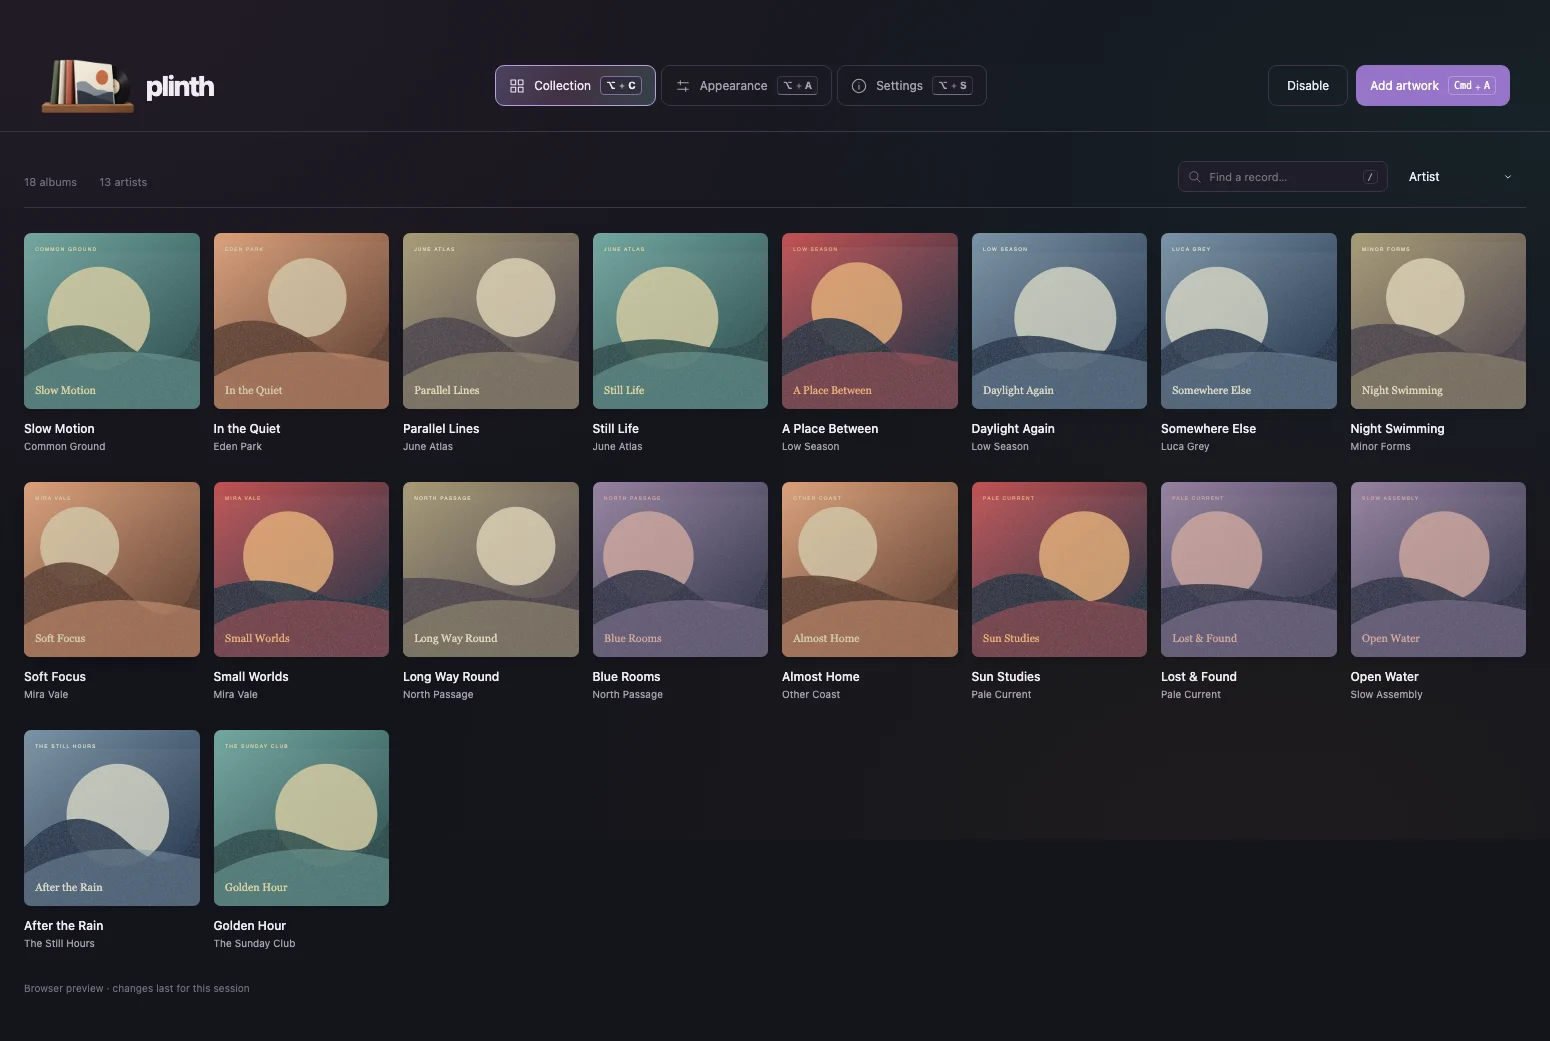
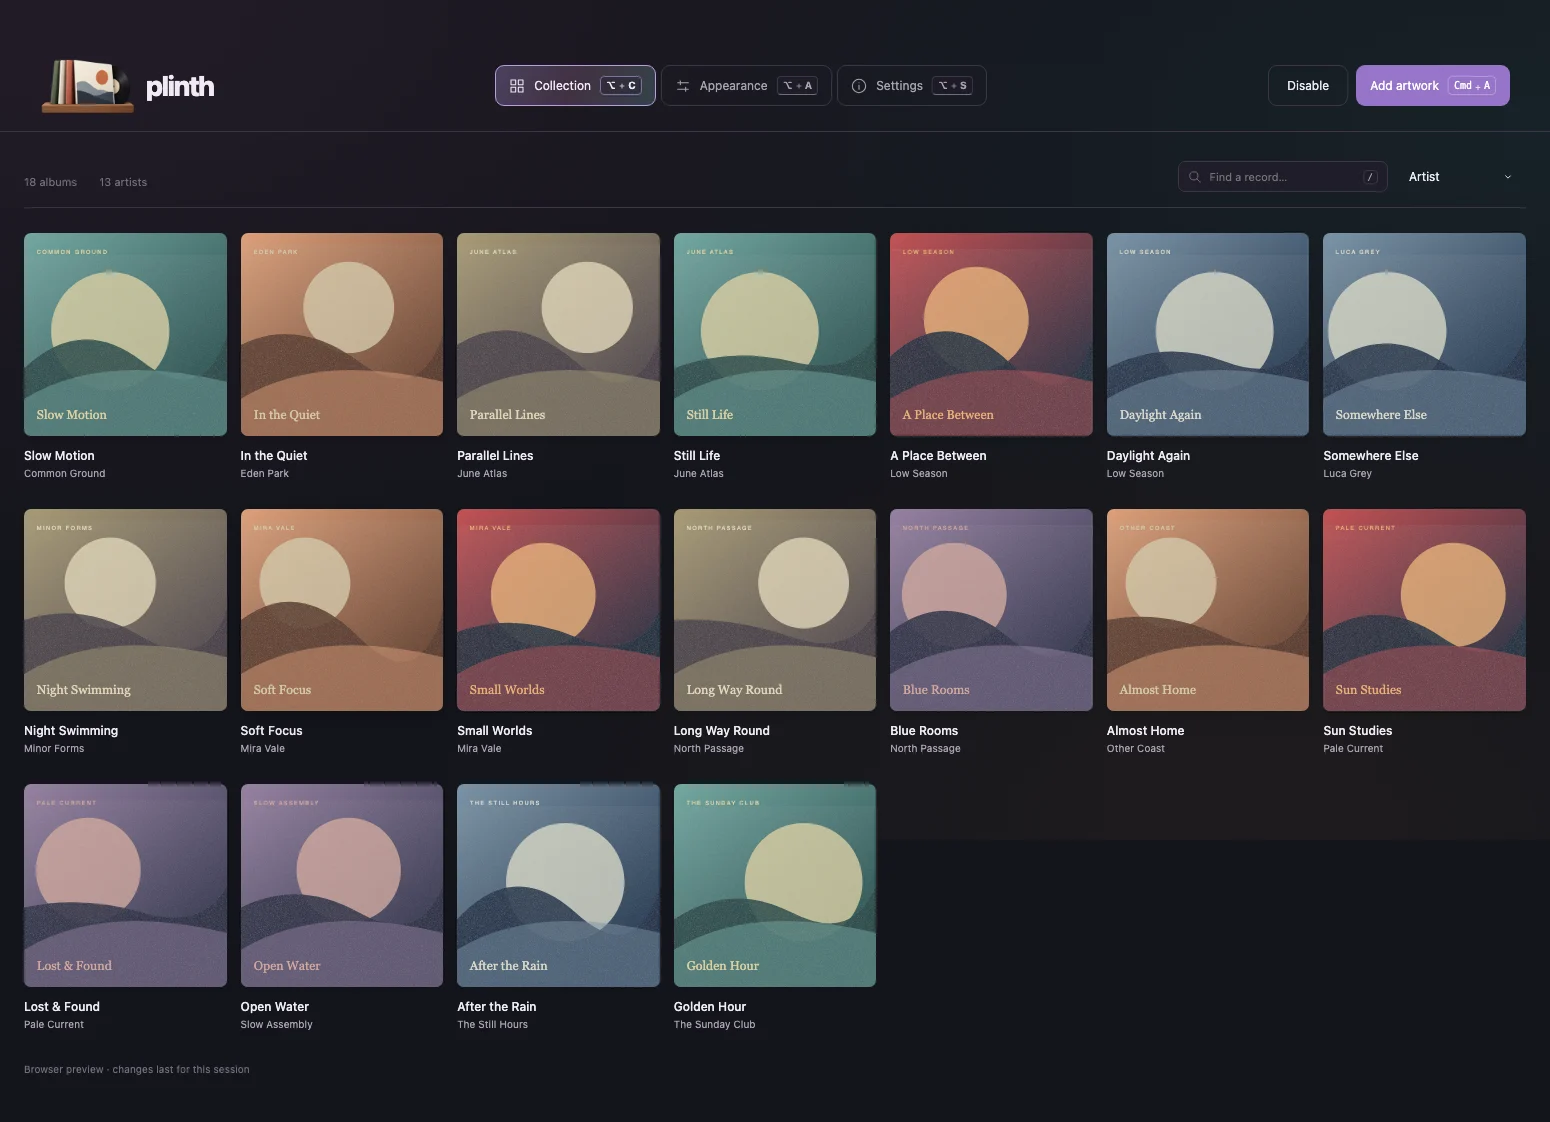
Restore the previous collection column counts, keeping tighter gaps

diff --git a/src/app.css b/src/app.css
@@ -2,12 +2,12 @@
 :root[data-theme=light]{color-scheme:light;--background:radial-gradient(ellipse at 0% 0%,#efdce9,transparent 55%),radial-gradient(ellipse at 100% 10%,#dcefee,transparent 50%),#f7f5f3;--paper:#fffdfcd9;--paper-strong:#f0ebf1;--ink:#2b2632;--muted:#7f7387;--faint:#93899a;--line:#dfd6e4;--accent:#74509e;--accent-bg:#805ba9;--danger:#a94057}
 body{margin:0;background:var(--background);background-attachment:fixed;color:var(--ink);min-width:360px}button,input,select{font:inherit}button,select{cursor:pointer}button{display:inline-flex;align-items:center;justify-content:center;gap:9px;border:1px solid var(--line);border-radius:9px;background:transparent;color:var(--ink);padding:10px 14px;transition:background .15s,border-color .15s}button:hover:not(:disabled){background:var(--paper-strong);border-color:var(--faint)}button:disabled{opacity:.5;cursor:default}button.primary{background:var(--accent-bg);border-color:transparent;color:#fff}button.primary:hover:not(:disabled){background:color-mix(in srgb,var(--accent-bg) 85%,white)}button.icon-only{width:34px;height:34px;padding:7px;border-color:transparent;background:transparent}button.text-button{padding:0;border:0;color:var(--accent);background:none;font-size:12px}button:focus-visible,a:focus-visible,input:focus-visible,select:focus-visible{outline:1px solid var(--faint);outline-offset:2px}svg{display:block;flex:0 0 auto}h1,h2,h3,p{margin:0}h1{font-size:34px;font-weight:550;letter-spacing:-1.2px;line-height:1.3}h2{font-size:17px;font-weight:550;letter-spacing:-.3px}small{font-size:12px;color:var(--muted)}input,select{border:1px solid var(--line);background:var(--paper);color:var(--ink);border-radius:8px;padding:10px 12px;min-width:0}select{font-size:12px}label{display:grid;gap:8px;font-size:12px}a{color:inherit;text-decoration:none}kbd{font:10px ui-monospace,monospace;padding:3px 5px;border:1px solid var(--line);border-radius:4px;color:var(--muted)}kbd.shortcut{display:inline-flex;align-items:center;gap:3px;white-space:nowrap}.shortcut-plus{opacity:.75;transform:translateY(1.5px)}
 .titlebar{height:34px;padding:0 27px 0 86px;display:flex;align-items:center;justify-content:space-between;color:var(--faint);font-size:10px;letter-spacing:.2px;user-select:none}.local-indicator{display:flex;gap:6px;align-items:center}.local-indicator>span{width:4px;height:4px;border-radius:50%;background:#85b7a0}header{height:92px;border-bottom:1px solid var(--line);display:flex;align-items:center;justify-content:space-between;gap:24px;padding:0 40px}.header-actions{display:flex;align-items:stretch;gap:8px;flex-shrink:0}.header-actions>button{font-size:12px;padding:10px 13px}.brand{display:flex;align-items:center;gap:10px;font-size:28px;font-weight:760;letter-spacing:-1.4px}.brand-mark{--brand-logo-size:40px;display:flex;align-items:center;justify-content:center;flex-shrink:0;width:var(--brand-logo-size);height:40px}.brand-mark[data-logo="logo-1"]{--brand-logo-size:96px}.brand-mark[data-logo="logo-2"]{--brand-logo-size:72px;margin-right:-8px}.brand-mark svg{width:var(--brand-logo-size);height:var(--brand-logo-size);align-self:center}.version{font-size:9px;font-weight:400;letter-spacing:0;color:var(--faint);align-self:start;padding-top:6px}nav{display:flex;gap:5px}nav button{font-size:12px;border-color:var(--line);padding:10px 13px;color:var(--muted)}nav button:not(.active){background:transparent}nav button.active,nav button.active:hover:not(:disabled){background:linear-gradient(115deg,color-mix(in srgb,var(--accent) 28%,var(--paper)),color-mix(in srgb,#c882ab 20%,var(--paper)) 48%,color-mix(in srgb,#72bab5 24%,var(--paper)));border-color:var(--accent);color:var(--ink)}nav button>svg{width:16px;height:16px}main{max-width:1440px;margin:0 auto;padding:40px 44px 0}.page-heading{display:flex;justify-content:space-between;align-items:center;gap:20px;margin-bottom:36px}.eyebrow{display:block;color:var(--faint);font-size:9px;letter-spacing:1.7px;font-weight:550;margin-bottom:10px}.page-heading p{margin-top:9px;font-size:13px;color:var(--muted);line-height:1.6}.status-pill{font-size:11px;border-radius:22px;padding:9px 13px;background:var(--paper);color:var(--muted);white-space:nowrap}.status-pill svg{width:12px;height:12px;margin-left:5px}.status-dot{width:6px;height:6px;border-radius:50%;background:#83c9ac;box-shadow:0 0 8px #83c9ac22}.paused .status-dot{background:var(--faint)}
-.collection-toolbar{display:flex;align-items:center;justify-content:space-between;gap:20px;border-bottom:1px solid var(--line);margin-bottom:25px;min-height:52px}.collection-tabs{display:flex;align-items:center;gap:22px;align-self:stretch}.collection-meta{display:flex;align-items:center;font-size:11px;color:var(--faint)}.toolbar-right{display:flex;gap:10px;align-items:center;padding-bottom:10px}.toolbar-right select{border-color:transparent;background:transparent;padding-right:5px}.search{display:flex;align-items:center;gap:8px;border:1px solid var(--line);background:var(--paper);border-radius:7px;padding:0 9px;color:var(--faint)}.search>svg{width:14px;height:14px}.search input{width:145px;border:0;background:none;padding:8px 0;font-size:11px}.search kbd{padding:1px 4px;font-size:9px}.album-grid{display:grid;grid-template-columns:repeat(7,minmax(0,1fr));gap:22px 14px}.album-card{min-width:0;position:relative}.artwork{display:block;position:relative;width:100%;padding:0;border:0;border-radius:7px;background:var(--paper-strong);aspect-ratio:1;box-shadow:0 5px 10px #0002;overflow:hidden;transition:transform .2s,box-shadow .2s}.album-edit:hover .artwork{box-shadow:0 8px 20px #0004}.artwork img{width:100%;height:100%;object-fit:cover;display:block}.album-edit{display:block;width:100%;padding:0;border:0;border-radius:0;text-align:left}.album-edit:hover:not(:disabled){background:transparent}.album-caption{display:block;min-width:0;padding:11px 0 8px}.album-title{display:block;font-size:12px;font-weight:500;letter-spacing:0;overflow:hidden;text-overflow:ellipsis;white-space:nowrap;line-height:1.5}.album-artist{display:block;color:var(--muted);font-size:10px;margin-top:2px;text-overflow:ellipsis;overflow:hidden;white-space:nowrap}.album-card.disabled img{opacity:.4}.hidden-label{position:absolute;top:8px;left:8px;border-radius:4px;background:#000b;padding:4px 6px;font-size:9px;color:white}.import-strip{display:flex;align-items:center;justify-content:space-between;gap:16px;margin-top:34px;padding:20px 22px;border:1px dashed var(--line);border-radius:10px}.import-copy{display:flex;align-items:center;gap:15px}.folder-mark{display:grid;place-items:center;width:34px;height:34px;border-radius:8px;background:var(--paper-strong);color:var(--accent)}.import-copy strong{font-size:12px;font-weight:500}.import-copy p{font-size:11px;color:var(--muted);margin-top:5px}.import-strip>button{font-size:11px;padding:8px 10px;white-space:nowrap}.import-strip>button svg{width:13px;height:13px}footer{display:flex;align-items:center;justify-content:space-between;gap:20px;padding:25px 0;color:var(--faint);font-size:10px}footer>span:first-child{display:flex;align-items:center;gap:7px}footer svg{width:14px;height:14px}
+.collection-toolbar{display:flex;align-items:center;justify-content:space-between;gap:20px;border-bottom:1px solid var(--line);margin-bottom:25px;min-height:52px}.collection-tabs{display:flex;align-items:center;gap:22px;align-self:stretch}.collection-meta{display:flex;align-items:center;font-size:11px;color:var(--faint)}.toolbar-right{display:flex;gap:10px;align-items:center;padding-bottom:10px}.toolbar-right select{border-color:transparent;background:transparent;padding-right:5px}.search{display:flex;align-items:center;gap:8px;border:1px solid var(--line);background:var(--paper);border-radius:7px;padding:0 9px;color:var(--faint)}.search>svg{width:14px;height:14px}.search input{width:145px;border:0;background:none;padding:8px 0;font-size:11px}.search kbd{padding:1px 4px;font-size:9px}.album-grid{display:grid;grid-template-columns:repeat(6,minmax(0,1fr));gap:22px 14px}.album-card{min-width:0;position:relative}.artwork{display:block;position:relative;width:100%;padding:0;border:0;border-radius:7px;background:var(--paper-strong);aspect-ratio:1;box-shadow:0 5px 10px #0002;overflow:hidden;transition:transform .2s,box-shadow .2s}.album-edit:hover .artwork{box-shadow:0 8px 20px #0004}.artwork img{width:100%;height:100%;object-fit:cover;display:block}.album-edit{display:block;width:100%;padding:0;border:0;border-radius:0;text-align:left}.album-edit:hover:not(:disabled){background:transparent}.album-caption{display:block;min-width:0;padding:11px 0 8px}.album-title{display:block;font-size:12px;font-weight:500;letter-spacing:0;overflow:hidden;text-overflow:ellipsis;white-space:nowrap;line-height:1.5}.album-artist{display:block;color:var(--muted);font-size:10px;margin-top:2px;text-overflow:ellipsis;overflow:hidden;white-space:nowrap}.album-card.disabled img{opacity:.4}.hidden-label{position:absolute;top:8px;left:8px;border-radius:4px;background:#000b;padding:4px 6px;font-size:9px;color:white}.import-strip{display:flex;align-items:center;justify-content:space-between;gap:16px;margin-top:34px;padding:20px 22px;border:1px dashed var(--line);border-radius:10px}.import-copy{display:flex;align-items:center;gap:15px}.folder-mark{display:grid;place-items:center;width:34px;height:34px;border-radius:8px;background:var(--paper-strong);color:var(--accent)}.import-copy strong{font-size:12px;font-weight:500}.import-copy p{font-size:11px;color:var(--muted);margin-top:5px}.import-strip>button{font-size:11px;padding:8px 10px;white-space:nowrap}.import-strip>button svg{width:13px;height:13px}footer{display:flex;align-items:center;justify-content:space-between;gap:20px;padding:25px 0;color:var(--faint);font-size:10px}footer>span:first-child{display:flex;align-items:center;gap:7px}footer svg{width:14px;height:14px}
 .empty-state{min-height:370px;display:flex;flex-direction:column;align-items:center;justify-content:center;text-align:center;gap:18px}.empty-state .eyebrow{margin:0}.empty-state h2{font-size:25px}.empty-state p{font-size:13px;line-height:1.8;color:var(--muted)}.empty-art{width:64px;height:64px;background:var(--paper);border:1px solid var(--line);border-radius:16px;display:grid;place-items:center;color:var(--accent)}.empty-art svg{width:30px;height:30px}.actions{display:flex;gap:10px}.panel{background:var(--paper);border:1px solid var(--line);border-radius:13px;padding:24px}.panel-heading{display:flex;align-items:center;justify-content:space-between;margin-bottom:21px}.appearance-layout{display:grid;grid-template-columns:minmax(0,1.6fr) minmax(310px,1fr);gap:32px}.preview-column{position:sticky;top:25px;align-self:start}.section-label{display:flex;justify-content:space-between;color:var(--faint);font-size:9px;letter-spacing:1px;margin-bottom:16px}.section-label>span:last-child{letter-spacing:0}.monitor-preview{position:relative;border:6px solid #302c38;border-bottom-width:16px;border-radius:14px;background:radial-gradient(ellipse at 15% 10%,#735c6880,transparent 60%),linear-gradient(140deg,#253543,#202128 55%,#514e40);height:350px;overflow:hidden;box-shadow:0 16px 35px #0002}.preview-menubar{display:flex;gap:8px;align-items:center;font-size:7px;color:#ddd;background:#ffffff0a;height:15px;padding:0 7px}.preview-menubar svg{width:9px;height:9px}.preview-clock{margin-left:auto}.preview-art{display:grid;align-content:start;max-height:calc(100% - 15px);overflow:auto}.preview-art img{width:100%;aspect-ratio:1;object-fit:cover;transition:transform .2s;position:relative}.preview-art img:hover{transform:scale(var(--preview-scale));z-index:10}.preview-empty{font-size:12px;color:#bbb;grid-column:1/-1;padding:80px 0;text-align:center}.preview-dock{position:absolute;bottom:6px;left:50%;transform:translateX(-50%);display:flex;gap:6px;padding:5px 7px;border:1px solid #ffffff22;background:#ffffff18;border-radius:8px;backdrop-filter:blur(12px)}.preview-dock>span{display:block;width:18px;height:18px;border-radius:5px;background:#90b1be88}.preview-dock>span:nth-child(2){background:#b48caf88}.preview-dock>span:nth-child(3){background:#b9b19188}.preview-dock>span:nth-child(4){background:#91b9a988}.monitor-foot{width:100px;height:29px;background:linear-gradient(#302c38,#403b46);margin:0 auto;border-radius:0 0 12px 12px;clip-path:polygon(30% 0,70% 0,77% 82%,100% 90%,100% 100%,0 100%,0 90%,23% 82%)}.preview-note{color:var(--muted);font-size:11px;display:flex;align-items:center;justify-content:center;gap:8px;line-height:1.6;margin:22px 0}.preview-note svg{width:14px;height:14px}.feature-note{display:flex;gap:15px;border-top:1px solid var(--line);padding-top:25px;margin-top:32px;color:var(--muted)}.feature-note>svg{color:var(--accent)}.feature-note strong{font-size:12px;font-weight:500;color:var(--ink)}.feature-note p{font-size:12px;line-height:1.8;margin-top:8px;max-width:390px}.segmented{display:flex;border:1px solid var(--line);border-radius:8px;padding:3px;gap:3px;margin-bottom:9px}.segmented button{flex:1;padding:7px 4px;font-size:11px;border:0;border-radius:5px;color:var(--muted)}.segmented button.chosen{background:var(--paper-strong);color:var(--ink)}.field-note{font-size:11px;color:var(--muted);line-height:1.7}.slider-field{margin-top:20px;gap:9px}.slider-field>span{display:flex;justify-content:space-between;font-size:12px}.slider-field output{font:11px ui-monospace,monospace;color:var(--muted)}input[type=range]{width:100%;height:4px;margin:5px 0;padding:0;accent-color:var(--accent);cursor:pointer}.toggle-row{display:flex;align-items:center;justify-content:space-between;gap:20px;margin-top:22px;font-size:12px}.toggle-row small{display:block;font-size:10px;color:var(--muted);margin-top:6px}.switch{appearance:none;flex:0 0 auto;width:32px;height:19px;border-radius:20px;padding:0;background:var(--line);border:0;position:relative;cursor:pointer}.switch:after{content:'';display:block;width:13px;height:13px;border-radius:50%;background:#fff;position:absolute;top:3px;left:3px;transition:transform .15s}.switch:checked{background:var(--accent-bg)}.switch:checked:after{transform:translateX(13px)}.control-divider{border-top:1px solid var(--line);margin-top:26px}.settings-grid{display:grid;grid-template-columns:1fr 1fr;gap:22px}.settings-panel h2{margin-bottom:12px;font-size:20px}.settings-panel>p.description{font-size:13px;line-height:1.85;color:var(--muted);margin-bottom:24px}.setting-row{display:flex;align-items:center;justify-content:space-between;gap:16px;margin:25px 0}.setting-row select{max-width:60%}.storage-summary{display:flex;gap:45px;margin:24px 0 30px;color:var(--muted);font-size:11px}.storage-summary strong{display:block;font-size:30px;color:var(--ink);font-weight:500;letter-spacing:-1px;margin-bottom:6px}.settings-panel>button{font-size:12px;margin-bottom:15px}.shortcut-row{border-top:1px solid var(--line);padding-top:16px;margin-bottom:20px;display:flex;align-items:center;justify-content:space-between;font-size:12px}
 .banner{margin:15px 44px 0;border:1px solid #cf739066;border-radius:8px;padding:10px 14px;font-size:12px;display:flex;align-items:center;justify-content:space-between;gap:16px}.banner.error{color:var(--danger);background:var(--paper)}.banner>span{white-space:pre-wrap;max-height:140px;overflow:auto}.toast{position:fixed;bottom:24px;left:50%;transform:translateX(-50%);z-index:80;padding:13px 18px;border:1px solid var(--line);border-radius:10px;background:var(--paper-strong);box-shadow:0 10px 40px #0004;display:flex;align-items:center;gap:10px;font-size:12px;max-width:90vw}.toast svg{color:#83c9ac}.drop-overlay{position:fixed;inset:8px;z-index:100;border:2px dashed var(--accent);border-radius:15px;background:#211c2bed;backdrop-filter:blur(15px);display:flex;flex-direction:column;align-items:center;justify-content:center;gap:22px;pointer-events:none}.drop-overlay>svg{width:45px;height:45px;color:var(--accent)}.drop-overlay p{color:var(--muted)}.import-progress{position:fixed;bottom:25px;left:50%;transform:translateX(-50%);z-index:90;background:var(--paper-strong);border:1px solid var(--line);border-radius:10px;padding:15px 22px;font-size:12px;display:flex;gap:12px;align-items:center}.import-progress>span{width:13px;height:13px;border-radius:50%;border:2px solid var(--line);border-top-color:var(--accent);animation:spin 1s linear infinite}@keyframes spin{to{transform:rotate(360deg)}}.visually-hidden{position:absolute;width:1px;height:1px;clip-path:inset(50%);overflow:hidden;white-space:nowrap}
 dialog{width:min(510px,calc(100vw - 40px));padding:26px;border:1px solid var(--line);border-radius:16px;background:var(--paper-strong);color:var(--ink);box-shadow:0 25px 100px #0007;max-height:90vh;overflow:auto}dialog::backdrop{background:#0006;backdrop-filter:blur(8px)}.editor-top{display:flex;gap:23px;align-items:center;margin-bottom:26px}.editor-top>img{width:130px;height:130px;object-fit:cover;border-radius:7px;box-shadow:0 8px 20px #0003}.editor-top>div{min-width:0}.editor-top h3{font-size:20px;overflow-wrap:anywhere;font-weight:550;letter-spacing:-.4px}.editor-top p{color:var(--muted);font-size:12px;margin:7px 0 18px}dialog form>label{margin:18px 0;position:relative}.two-fields{display:grid;grid-template-columns:1.2fr 1fr;gap:14px}.optional{position:absolute;right:0;color:var(--faint);font-size:10px}.editor-actions{display:flex;align-items:center;justify-content:space-between;border-top:1px solid var(--line);margin-top:24px;padding-top:20px}.danger{color:var(--danger)}
 .desktop-document,.desktop-document body{background:transparent!important;min-width:0;overflow:hidden}.desktop-document #app{height:100vh}.desktop-surface{height:100vh;overflow:clip;background:transparent}.desktop-grid{display:flex;flex-wrap:wrap;justify-content:center;column-gap:var(--column-gap);row-gap:var(--row-gap);padding:var(--top) max(6px,calc(var(--column-gap) / 2)) 0}.desktop-cell{position:relative;flex:0 0 var(--cover-size);width:var(--cover-size);height:var(--cover-size);min-width:0;min-height:0}.desktop-cover{width:100%;height:100%;display:block;border:0;padding:0;position:absolute;inset:0;box-shadow:0 5px 4px rgb(0 0 0 / var(--shadow));border-radius:var(--radius);background:none!important}.desktop-document .desktop-cover{cursor:pointer}.desktop-cover>img{display:block;width:100%;height:100%;object-fit:cover;border-radius:inherit;pointer-events:none}.desktop-cell:has(.enlarged){z-index:10}.desktop-error{position:fixed;bottom:30px;left:50%;transform:translateX(-50%);max-width:600px;background:#24202fec;color:white;padding:15px 22px;border-radius:10px;font-size:12px}
-@media(min-width:1350px){.album-grid{grid-template-columns:repeat(8,minmax(0,1fr))}}@media(max-width:1000px){header{padding-inline:25px;gap:14px}main{padding:30px 28px 0}.album-grid{grid-template-columns:repeat(6,minmax(0,1fr));gap:20px 12px}h1{font-size:29px}nav button{padding:9px}.appearance-layout{gap:22px;grid-template-columns:minmax(0,1fr) 300px}.monitor-preview{height:280px}}@media(max-width:760px){header{flex-wrap:wrap;height:auto;padding:18px 20px;gap:16px}header nav{order:3;width:100%}nav button{flex:1}.titlebar{padding-left:20px}.local-indicator{display:none}main{padding:28px 20px 0}.page-heading{align-items:start;gap:14px}.status-pill{font-size:0;padding:9px;gap:5px}.status-pill svg{margin:0}.album-grid{grid-template-columns:repeat(4,minmax(0,1fr))}.collection-meta,.search kbd{display:none}.search input{width:100px}.collection-toolbar{gap:10px}.toolbar-right{gap:0}.collection-tabs{gap:0}.import-strip{align-items:start;flex-direction:column}.appearance-layout,.settings-grid{grid-template-columns:1fr}.preview-column{position:static}.monitor-preview{height:320px}footer>span:last-child{display:none}.banner{margin-inline:20px}.collection-toolbar select{max-width:85px}}@media(prefers-reduced-motion:reduce){*,*::before,*::after{transition:none!important;animation:none!important}}
+@media(min-width:1350px){.album-grid{grid-template-columns:repeat(7,minmax(0,1fr))}}@media(max-width:1000px){header{padding-inline:25px;gap:14px}main{padding:30px 28px 0}.album-grid{grid-template-columns:repeat(5,minmax(0,1fr));gap:20px 12px}h1{font-size:29px}nav button{padding:9px}.appearance-layout{gap:22px;grid-template-columns:minmax(0,1fr) 300px}.monitor-preview{height:280px}}@media(max-width:760px){header{flex-wrap:wrap;height:auto;padding:18px 20px;gap:16px}header nav{order:3;width:100%}nav button{flex:1}.titlebar{padding-left:20px}.local-indicator{display:none}main{padding:28px 20px 0}.page-heading{align-items:start;gap:14px}.status-pill{font-size:0;padding:9px;gap:5px}.status-pill svg{margin:0}.album-grid{grid-template-columns:repeat(3,minmax(0,1fr))}.collection-meta,.search kbd{display:none}.search input{width:100px}.collection-toolbar{gap:10px}.toolbar-right{gap:0}.collection-tabs{gap:0}.import-strip{align-items:start;flex-direction:column}.appearance-layout,.settings-grid{grid-template-columns:1fr}.preview-column{position:static}.monitor-preview{height:320px}footer>span:last-child{display:none}.banner{margin-inline:20px}.collection-toolbar select{max-width:85px}}@media(prefers-reduced-motion:reduce){*,*::before,*::after{transition:none!important;animation:none!important}}
 
 .modal-error{color:var(--danger);font-size:12px;line-height:1.6;margin-bottom:18px;white-space:pre-wrap}
 .album-link-help{color:var(--muted);font-size:12px;line-height:1.6;margin:-10px 0 18px}
